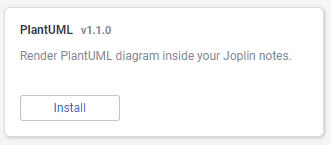
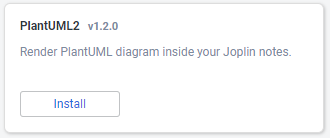
Update documentation

diff --git a/README.md b/README.md
@@ -1,4 +1,4 @@
-# Joplin Plugin - PlantUML
+# Joplin Plugin - PlantUML2
 
 This plugin allows you to create UML diagrams uing the syntax defined in [https://plantuml.com](https://plantuml.com).
 
@@ -6,7 +6,8 @@ This plugin allows you to create UML diagrams uing the syntax defined in [https:
 
 ### Automatic installation
 
-Use the Joplin plugin manager to install it (`Joplin > Options > Plugins`)
+Use the Joplin plugin manager to install it (`Joplin > Options > Plugins`).
+Search for `PlantUML2`.
 
 ![Plugin Install](./doc/automatic_install.png)
 
